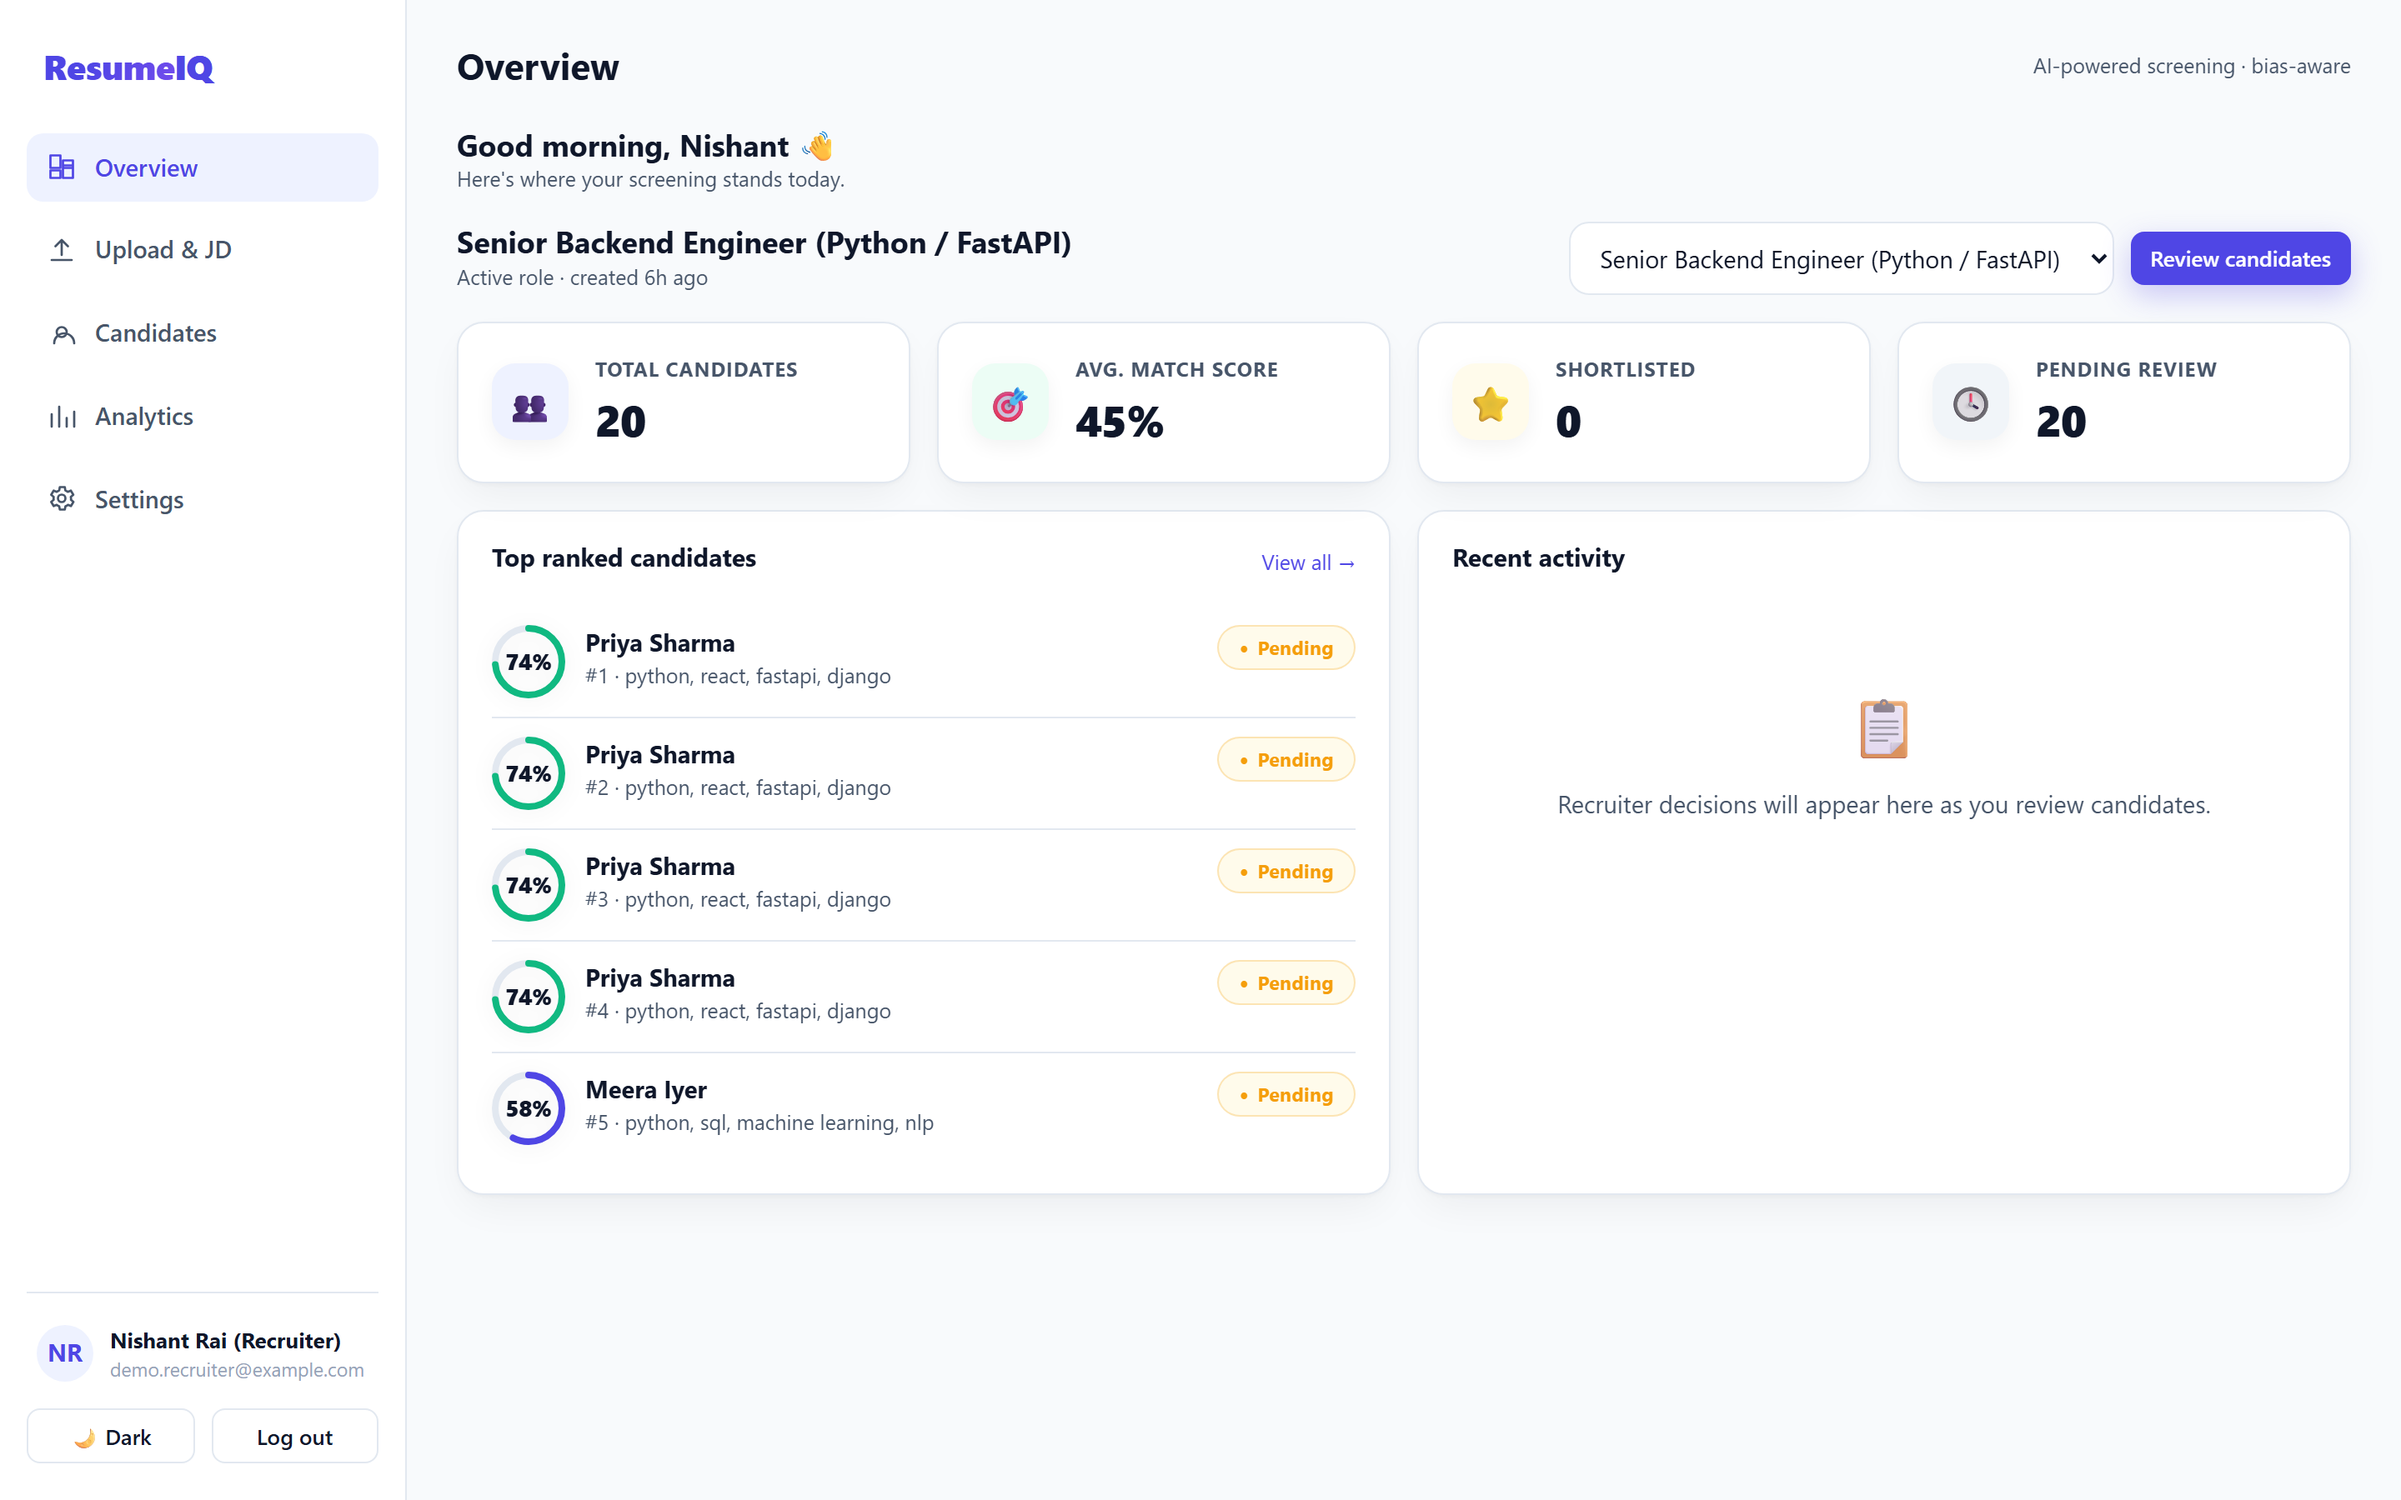
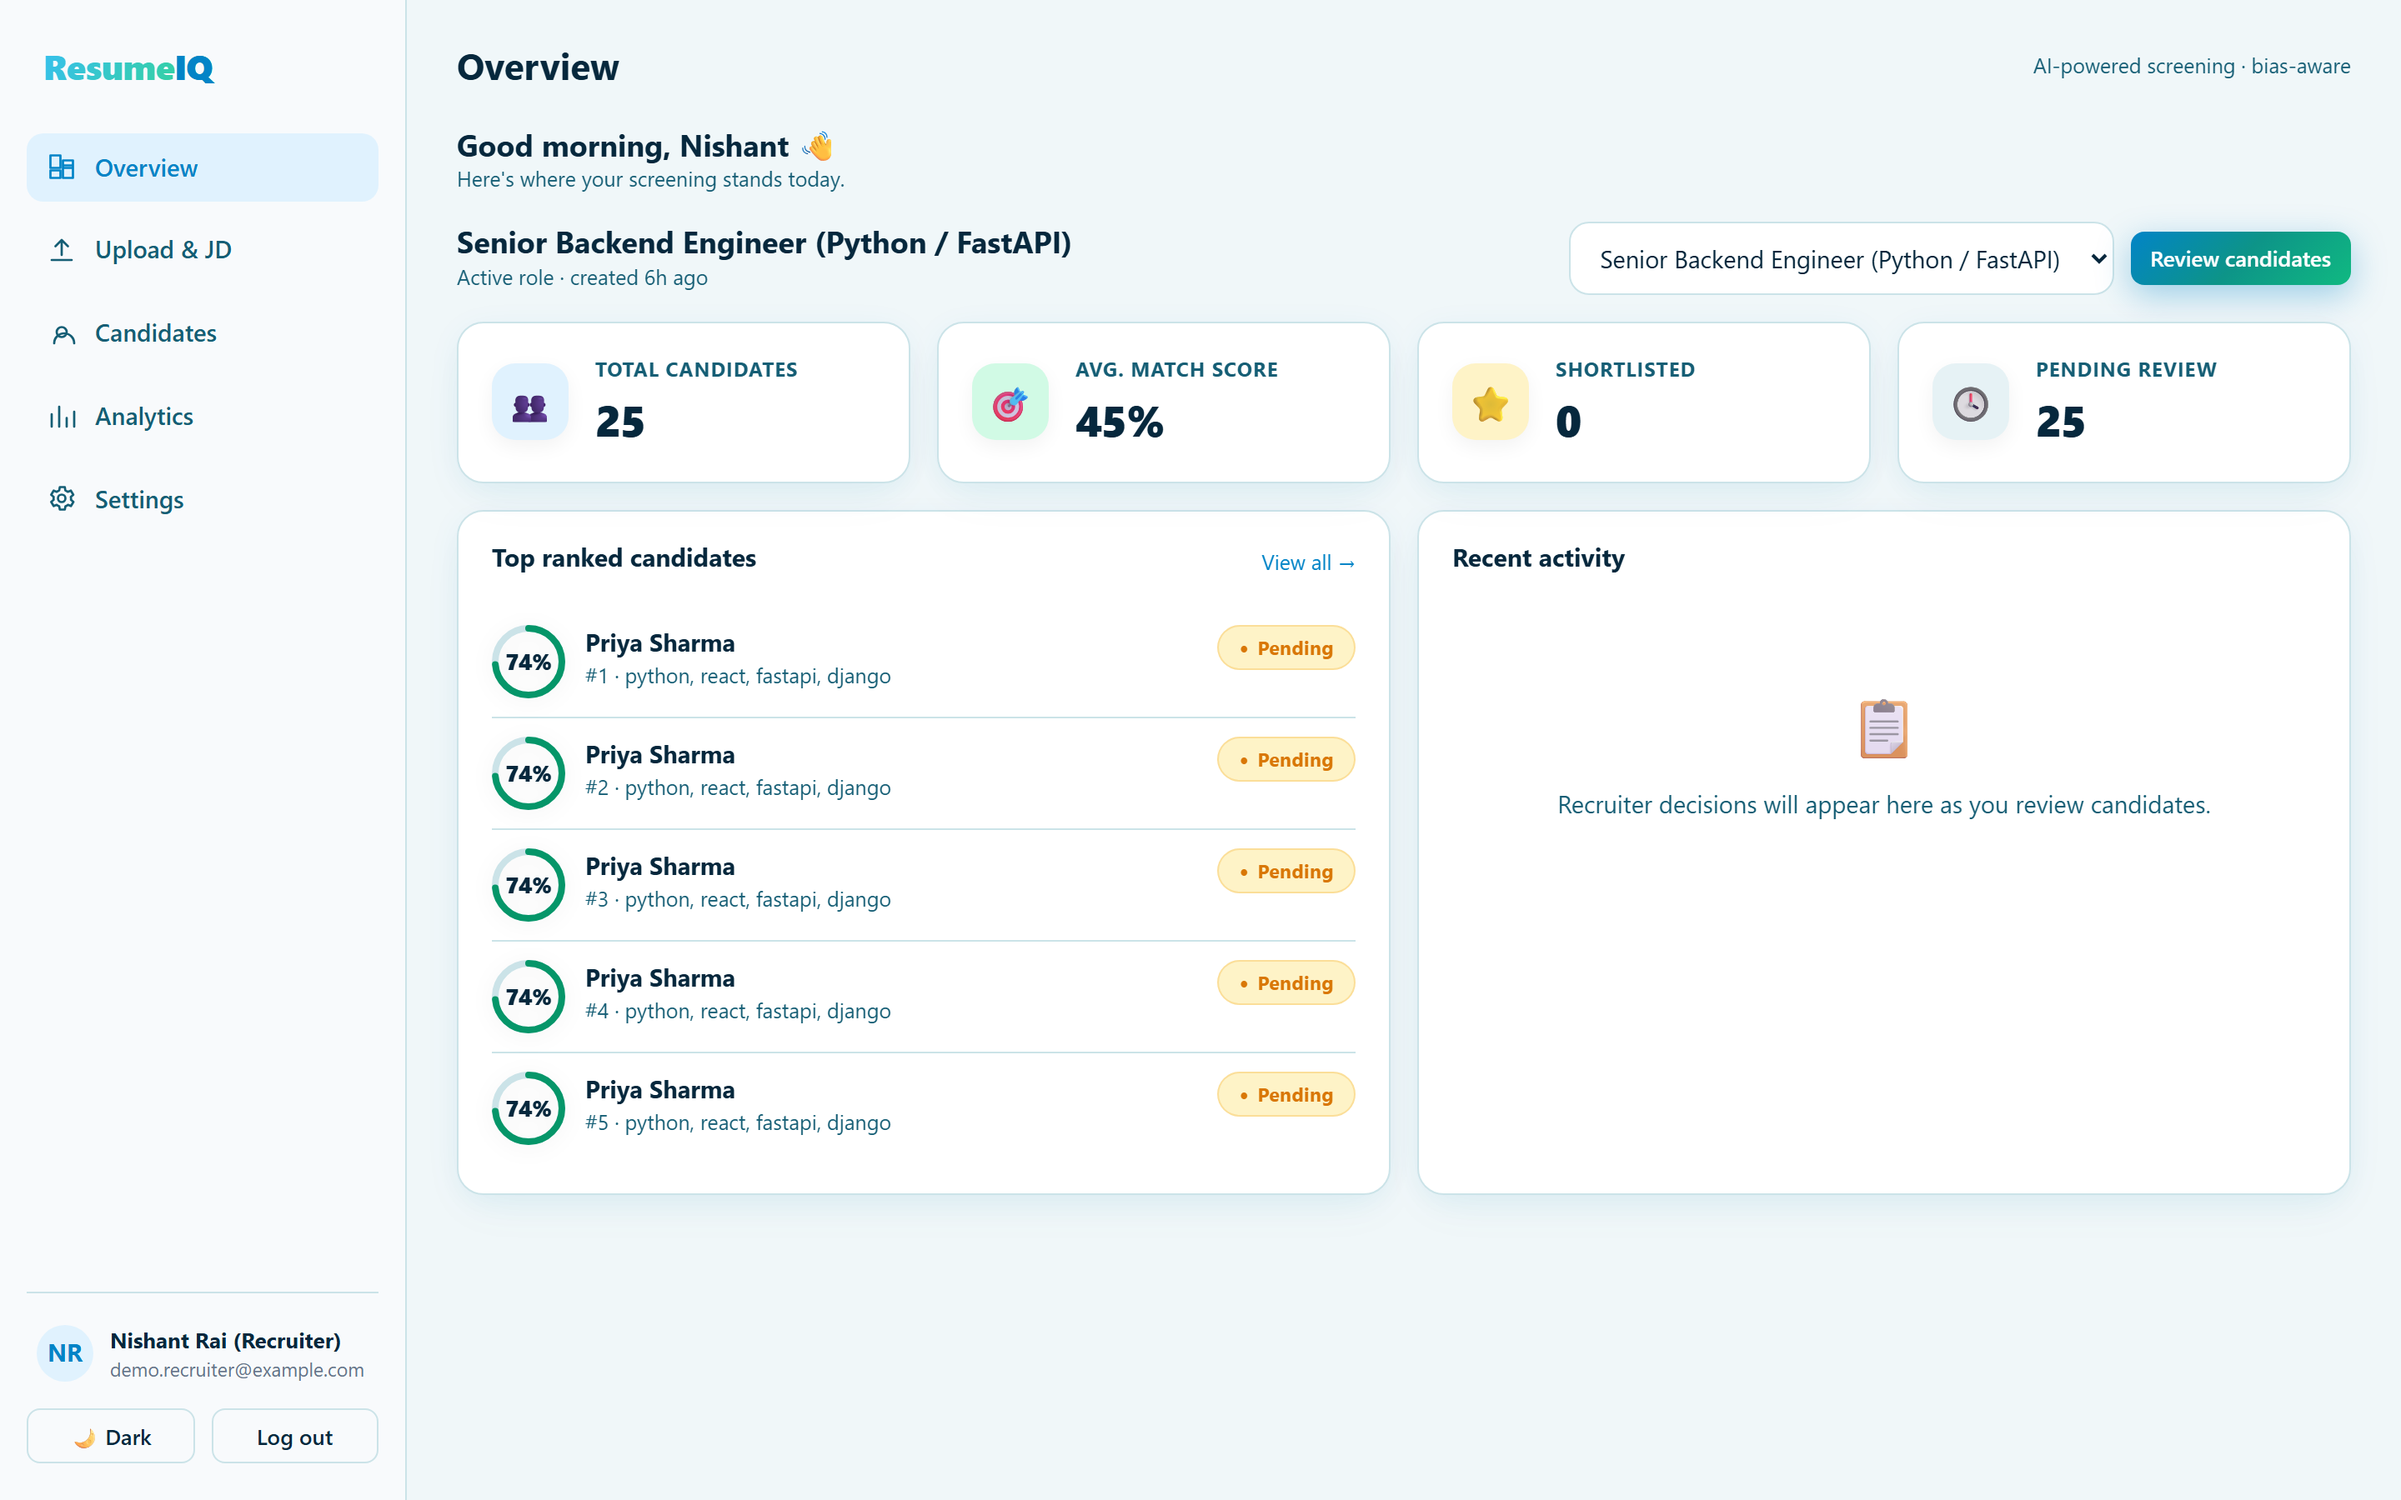
Apply unique Cyber Emerald & Oceanic Cyan theme and update screenshots

diff --git a/frontend/src/styles.css b/frontend/src/styles.css
@@ -1,49 +1,51 @@
-/* ===== ResumeIQ design system ===== */
+/* ===== ResumeIQ design system (Cyber Emerald & Oceanic Cyan Theme) ===== */
 :root {
-  --bg: #f8fafc;
+  --bg: #f0f7f9;
   --panel: #ffffff;
-  --panel-2: #f1f5f9;
-  --border: #e2e8f0;
-  --text: #0f172a;
-  --text-2: #475569;
-  --muted: #94a3b8;
-  --primary: #4f46e5;
-  --primary-2: #6366f1;
-  --primary-gradient: linear-gradient(135deg, #6366f1 0%, #4f46e5 50%, #4338ca 100%);
-  --primary-soft: #eef2ff;
-  --success: #10b981;
-  --success-soft: #ecfdf5;
-  --warn: #f59e0b;
-  --warn-soft: #fffbeb;
-  --danger: #ef4444;
-  --danger-soft: #fef2f2;
-  --shadow: 0 1px 3px 0 rgba(0, 0, 0, 0.04), 0 10px 25px -5px rgba(15, 23, 42, 0.06);
-  --shadow-lg: 0 20px 40px -15px rgba(79, 70, 229, 0.15);
+  --panel-2: #e6f2f5;
+  --border: #cbe3e8;
+  --text: #06283d;
+  --text-2: #155e75;
+  --muted: #64748b;
+  --primary: #0284c7;
+  --primary-2: #0d9488;
+  --primary-gradient: linear-gradient(135deg, #0284c7 0%, #0d9488 50%, #10b981 100%);
+  --accent-gradient: linear-gradient(135deg, #06b6d4 0%, #3b82f6 50%, #8b5cf6 100%);
+  --primary-soft: #e0f2fe;
+  --success: #059669;
+  --success-soft: #d1fae5;
+  --warn: #d97706;
+  --warn-soft: #fef3c7;
+  --danger: #e11d48;
+  --danger-soft: #ffe4e6;
+  --shadow: 0 4px 20px -2px rgba(2, 132, 199, 0.08), 0 10px 30px -5px rgba(13, 148, 136, 0.05);
+  --shadow-lg: 0 20px 40px -10px rgba(2, 132, 199, 0.22);
   --radius: 16px;
-  --sidebar-bg: #ffffff;
+  --sidebar-bg: #f8fafc;
 }
 
 [data-theme="dark"] {
-  --bg: #090d16;
-  --panel: #111827;
-  --panel-2: #1f2937;
-  --border: #2d3748;
-  --text: #f8fafc;
-  --text-2: #94a3b8;
-  --muted: #64748b;
-  --primary: #818cf8;
-  --primary-2: #6366f1;
-  --primary-gradient: linear-gradient(135deg, #818cf8 0%, #6366f1 50%, #4f46e5 100%);
-  --primary-soft: #1e1b4b;
+  --bg: #050b14;
+  --panel: #0b1322;
+  --panel-2: #111c33;
+  --border: #1d2d4a;
+  --text: #f0f9ff;
+  --text-2: #7dd3fc;
+  --muted: #475569;
+  --primary: #38bdf8;
+  --primary-2: #34d399;
+  --primary-gradient: linear-gradient(135deg, #38bdf8 0%, #34d399 50%, #a855f7 100%);
+  --accent-gradient: linear-gradient(135deg, #06b6d4 0%, #a855f7 100%);
+  --primary-soft: #0c2a4a;
   --success: #34d399;
-  --success-soft: #064e3b;
+  --success-soft: #022c22;
   --warn: #fbbf24;
-  --warn-soft: #451a03;
-  --danger: #f87171;
-  --danger-soft: #451216;
-  --shadow: 0 4px 6px -1px rgba(0, 0, 0, 0.4), 0 12px 30px -4px rgba(0, 0, 0, 0.5);
-  --shadow-lg: 0 25px 50px -12px rgba(0, 0, 0, 0.7);
-  --sidebar-bg: #0d111d;
+  --warn-soft: #3a2202;
+  --danger: #fb7185;
+  --danger-soft: #3f121a;
+  --shadow: 0 4px 25px -2px rgba(0, 0, 0, 0.6), 0 12px 35px -4px rgba(56, 189, 248, 0.15);
+  --shadow-lg: 0 25px 60px -10px rgba(56, 189, 248, 0.25);
+  --sidebar-bg: #070e1b;
 }
 
 * { box-sizing: border-box; }
@@ -380,7 +382,7 @@ select.control { padding: 10px 14px; border: 1px solid var(--border); border-rad
 .main > * { animation: fadeUp 0.3s ease both; }
 
 .brand, .boot-logo {
-  background: linear-gradient(120deg, var(--primary) 20%, #a855f7 80%);
+  background: linear-gradient(120deg, #38bdf8 0%, #34d399 50%, #c084fc 100%);
   -webkit-background-clip: text;
   background-clip: text;
   -webkit-text-fill-color: transparent;
@@ -389,14 +391,22 @@ select.control { padding: 10px 14px; border: 1px solid var(--border); border-rad
   -webkit-text-fill-color: currentColor;
   background: none;
 }
-.hero-logo span { color: #c7d2fe; }
+.hero-logo span { color: #7dd3fc; }
 
-.card { transition: box-shadow 0.2s ease, border-color 0.2s ease; }
-.candidate-row:hover { box-shadow: 0 10px 28px rgba(23, 32, 58, 0.12); transform: translateY(-1px); }
-[data-theme="dark"] .candidate-row:hover { box-shadow: 0 12px 30px rgba(0, 0, 0, 0.45); }
+.card { transition: box-shadow 0.2s ease, border-color 0.2s ease, transform 0.2s ease; }
+.candidate-row:hover { box-shadow: var(--shadow-lg); transform: translateY(-2px); }
 
-.btn-primary { box-shadow: 0 6px 18px rgba(79, 70, 229, 0.28); }
-.btn-primary:hover { filter: brightness(1.06); }
+.btn-primary {
+  background: var(--primary-gradient);
+  color: #ffffff;
+  box-shadow: 0 6px 20px rgba(2, 132, 199, 0.35);
+  transition: all 0.2s cubic-bezier(0.4, 0, 0.2, 1);
+}
+.btn-primary:hover {
+  transform: translateY(-1px);
+  box-shadow: 0 8px 25px rgba(2, 132, 199, 0.48);
+  filter: brightness(1.08);
+}
 
 .stat:hover .value { letter-spacing: 0; }
 
